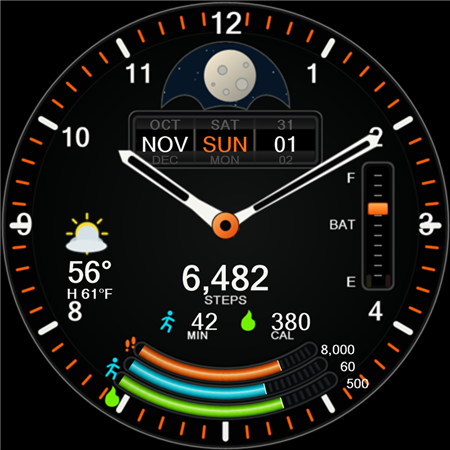
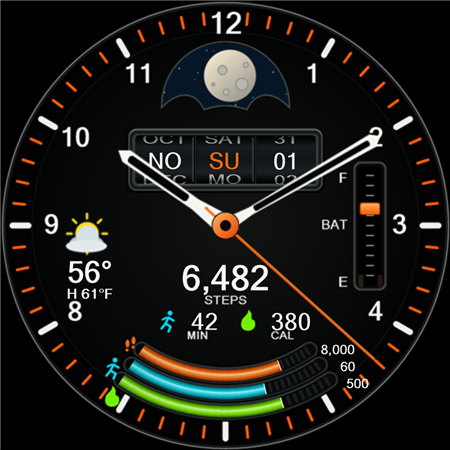
Inset numerals, deepen calendar drums, and add mechanical seconds

diff --git a/docs/validation.md b/docs/validation.md
@@ -1,7 +1,7 @@
 # Validation record
 
 2026-11-01. Windows, Android SDK 36 / build-tools 36.0.0, Android Studio JDK 25,
-Gradle 9.3.1, AGP 9.1.1. Version 0.2.0 was installed and activated on the
+Gradle 9.3.1, AGP 9.1.1. Version 0.3.0 was installed and activated on the
 physical SM-R950. Awake rendering, live step text/gauge, and native weather
 current temperature / high / condition were observed. Goal synchronization,
 source-app comparisons, ambient behavior, and battery-life checks are pending.
@@ -16,9 +16,10 @@ source-app comparisons, ambient behavior, and battery-life checks are pending.
 | Gradle resource-only assertion and Android lint | Passed; lint has 0 errors and 5 warnings |
 | Calendar / data / bounds contracts | Passed, including 2,192 dates |
 | Google WFF memory evaluator | Passed 10 MiB active / 4 MiB ambient budgets |
-| Maximum active decoded-resource estimate | 4,272,132 bytes (4.07 MiB) |
+| Maximum active decoded-resource estimate | 4,326,532 bytes (4.13 MiB) |
 | Maximum ambient decoded-resource estimate | 835,872 bytes (0.80 MiB) |
-| Physical watch install / activation / awake rendering | Passed with 0.2.0; observed via ADB screenshot, including concentric tracks and live metal band |
+| Physical watch install / activation / awake rendering | Passed with 0.3.0; inset 3/9, lowered calendar, live metal band, and enabled seconds observed |
+| Mechanical tick motion | Native 80 ms Tick; overshoot and return observed in screen recording |
 | Samsung steps payload | Live RANGED_VALUE observed from Samsung Health steps service; explicit goal not established |
 | Native weather availability | Unavailable state followed by current temperature, daily high, and condition icon |
 | Other activity payloads / source-app comparisons / ambient / battery life | Pending |
@@ -63,3 +64,19 @@ alignment with both goal and ranged progress. No animation, sensor subscription,
 or additional complication subscription was added. The host preview also fixes
 PowerShell's integer-overload rounding of fractional progress, so its fixture
 bands now show their actual partial fills.
+
+The 0.3.0 layout moves 3/9 to radius 174 and shifts the battery assembly eight
+units inward to leave the 3 clear. The calendar rim moves down 18 units; the
+adjacent live text is compressed vertically to 58% and partly hidden by a
+cropped 200-by-68 foreground bezel with shadows. This is a static visual
+projection of a drum, with calendar fields still updating only as needed.
+
+Seconds now use native [`Tick`](https://developer.android.com/reference/wear-os/wff/clock/tick)
+with duration 0.08 and strength 0.2. The option defaults to enabled, with a new
+configuration ID so an existing installation receives the requested default.
+Two ticks in a 4.35-second recording exhibited approximately 0.28 degrees of
+overshoot followed by return; sparse captured frames do not establish an exact
+frame count for every tick. No continuous sweep or millisecond expression was
+introduced. The native renderer handles the short burst; real battery impact
+still needs measurement. The cropped rim is hidden with the active dial in
+ambient, and seconds remain gated by ambient mode and the 15% cutoff.

diff --git a/docs/device-acceptance.md b/docs/device-acceptance.md
@@ -1,6 +1,6 @@
 # Watch6 device acceptance
 
-Status: **0.2.0 installed, activated, and rendering on the SM-R950** on
+Status: **0.3.0 installed, activated, and rendering on the SM-R950** on
 2026-11-01. ADB activation succeeded and an awake screenshot confirmed the
 analog hands, moon disc, correct NOV / SUN / 01 drums, battery slider, live
 steps, and native current temperature / daily high / weather icon. Weather
@@ -13,6 +13,14 @@ with the hand spindle, with metallic orange progress and a sharp cut edge over
 the exposed toothed track. Cyan/green filled bands are shown in the illustrative
 previews; their providers remain unset on the watch. Schema, memory, Gradle
 resource-only, lint, and expression/geometry checks pass for this revision.
+
+The 0.3.0 screenshot confirms clear inner-radius 3/9 numerals, the inset battery
+assembly, and the lowered calendar with foreshortened neighbors behind its rim.
+A short screen recording confirms seconds moving past a mark and returning:
+two captured ticks show about 0.28 degrees of settling motion (roughly 5% of a
+six-degree step). This is a pixel-derived observation, not precision timing.
+The native Tick is configured for 80 ms, strength 0.2, with seconds enabled by
+default. Ambient and low-battery suppression still require physical testing.
 
 See [installed provider findings](device-providers.md). Goal synchronization,
 active minutes/calories, comparison against the source apps, editor behavior,
@@ -44,7 +52,7 @@ activation does not by itself confirm the face appears in every picker view.
    twin-moon mechanism driven by WFF's coarse 0–28 moon position, not a precise
    astronomical calculation. Do not adjust the date of a watch collecting live
    health data solely to test rollover; use a test device or controlled preview.
-9. Enable optional seconds, then test at 15% and below: seconds must disappear,
+9. Check the default mechanical seconds and editor toggle, then test at 15% and below: seconds must disappear,
    with no flashing effects. Yellow lamp activates at 20%, red at 10%.
 10. Check always-on: no weather, activity tracks, moon, calendar, seconds, or
     bright texture. Only dim hour/minute hands and sparse indices remain. Check

diff --git a/README.md b/README.md
@@ -11,15 +11,18 @@ battery slider and steady low-battery lamps, a weather/custom-data inset, and
 three concentric activity bands centered on the hand spindle. The colored
 bands have a metallic sheen and sharp cut edges; fine rack teeth are exposed
 in the unfilled recessed tracks. Date changes are instantaneous, not animated.
-Optional seconds tick at 1 Hz and default **off**. Seconds disappear at 15%
-battery or below. Always-on mode keeps only dimmed hour/minute hands and sparse
-indices on black.
+The 3 and 9 share the inner numeral radius. The lowered calendar window partly
+covers vertically foreshortened adjacent labels to suggest rotating drums.
+Mechanical seconds default **on**: each second has a brief native 80 ms tick,
+a small overshoot, and a return to the correct mark. The editor can disable
+seconds; they disappear at 15% battery or below. Always-on mode keeps only
+dimmed hour/minute hands and sparse indices on black.
 
 ![Illustrative normal artwork composite](docs/previews/normal.png)
 
 These [normal](docs/previews/normal.png), [low-battery](docs/previews/low-battery.png),
 [ambient](docs/previews/ambient.png), [empty-data](docs/previews/unavailable.png),
-and [optional-seconds](docs/previews/seconds.png) previews are Windows artwork
+and [seconds](docs/previews/seconds.png) previews are Windows artwork
 composites, **not Wear OS screenshots**. Their example activity values/goals and
 weather come from the mockup and are not built into the live face.
 
@@ -29,7 +32,7 @@ The [data-source verification](docs/data-sources.md) was written before the data
 displays. Samsung Health phone SDK data and actual on-watch complication
 availability are different interfaces. Installed service declarations and their
 supported types have now been [verified on the watch](docs/device-providers.md).
-Version 0.2.0 is installed and active on the physical watch. Awake rendering,
+Version 0.3.0 is installed and active on the physical watch. Awake rendering,
 live Samsung Health steps (`RANGED_VALUE`), and native weather current / high /
 condition have been observed. Goal synchronization, source-app comparisons,
 other activity payloads, ambient behavior, and battery-life measurements still

diff --git a/docs/data-sources.md b/docs/data-sources.md
@@ -100,8 +100,9 @@ Sources: [WFF weather availability and staleness](https://developer.android.com/
 
 No executable application code, networking permission, location polling, heart
 rate sampling, alarms, or wake locks. Native clock hands and provider/system
-updates drive the face. Seconds default off; optional seconds tick at 1 Hz,
-never sweep, and disappear at 15% battery or less. Date drums and the mechanical
+updates drive the face. Mechanical seconds default on, with a native 80 ms
+overshoot-and-return tick once per second. They can be disabled in the editor
+and disappear at 15% battery or less. Date drums and the mechanical
 disc use date/moon sources rather than millisecond expressions. The native moon
 position is coarse (0–28); the decorative two-moon disc is not an astronomical
 ephemeris. Ambient mode displays dimmed hour/minute hands and sparse white
